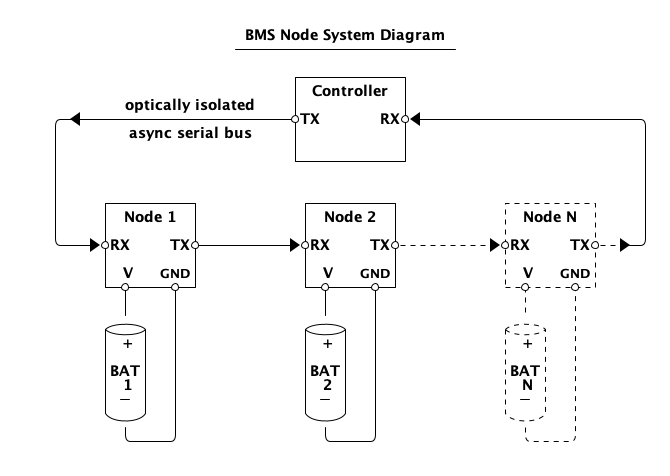
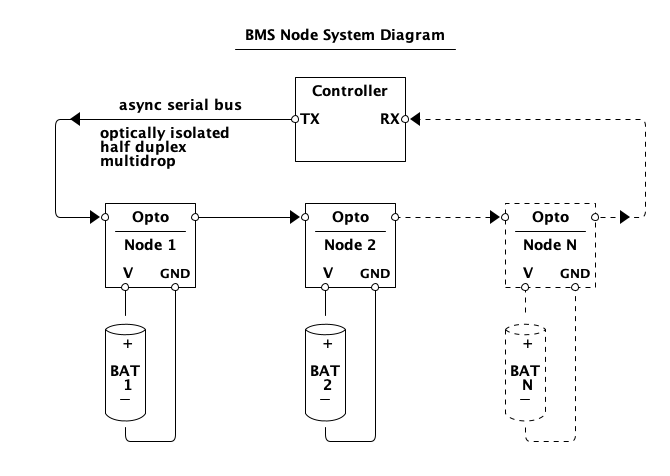
docs: update docs for new v3 design

diff --git a/doc/requirements.md b/doc/requirements.md
@@ -16,20 +16,23 @@ charging.
 System Context
 --------------
 
-The BMSNode device consist of a circuit board that is inspired by the
-"diyBMSv4" project:
+This project was originally inspired by the diyBMSv4" project:
 
 https://github.com/stuartpittaway/diyBMSv4
 
-The initial BMSNode product uses prototypes from the above project. In the
-future the hardware design may be updated, but that is a separate project.
-For the purpose of firmware requirements, the firmware is expected to run on
-this kind of circuit board.
+The early prototypes were based on this, but since then BMSNode has been
+completely redesigned from scratch and is now subtantially different from the
+"diyBMSv4".
 
-Each node is powered by the cell it is monitoring. Each node also has a serial
-transmit and receive signal loop. The TX of one node is connected to the RX
-of the next node in the chain. The TX circuit uses an optocoupler to
-electically isolate each node from the next.
+Each node is powered by the cell it is monitoring. There is a half-duplex
+asynchronous serial bus that daisy chains between all BMSNodes in a group.
+The transmit and receive signals are shared on each node. Each node has a
+unique address that is part of the serial protocol. A node will not transmit
+unless it is addressed with a command from the controller.
+
+Each BMSNode has an optical isolation circuit that provides a tap for the node
+to be able to listen and transmit on the bus, as well as propagate the serial
+data to the next node in the chain.
 
 All the nodes are connected in a chain this way. Each end of the chain is
 connected back to a controller device which may be something like a Raspberry
@@ -230,7 +233,7 @@ technically possible while still being able to respond to commands and voltage
 or temperature actions.
 
 During shunting operation, the goal is to consume power from the battery cell.
-Therefore it is permissible for the BMSNode iFirmware to operate at a high
+Therefore it is permissible for the BMSNode Firmware to operate at a high
 power level while shunting is in effect, and not necessary to stay in a low
 power mode.
 
@@ -275,27 +278,26 @@ The following are constraints that constitue non-functional requirements:
 ### CR1 - MCU Resources
 
 The BMSNode Firmware shall execute within the resources of the microcontroller.
-At the time of this writing, the MCU is an ATTiny841, which has the following
+At the time of this writing, the MCU is an ATTiny1614, which has the following
 constraints:
 
-* CPU clock - 8 MHz
-* Flash memory - 8 kbytes (for application + boot loader)
-* RAM - 512 bytes
-* EEPROM - (used for parameters) 512 bytes
+* CPU clock - 20 MHz
+* Flash memory - 16 kbytes (for application + boot loader)
+* RAM - 2048 bytes
+* EEPROM - (used for parameters) 256 bytes
 
-- CR.1 - firmware shall be designed to run with 8 MHz system clock
+- CR.1 - firmware shall be designed to run with 20 MHz or less system clock
 - CR.2 - firmware compiled size, including any boot loader and other data that
-  is stored in flash, must not be larger than 8 kbytes
-- CR.3 - the firmware shall not use more that 512 bytes of RAM, including
+  is stored in flash, must not be larger than 16 kbytes
+- CR.3 - the firmware shall not use more that 2048 bytes of RAM, including
   variable, stack, and heap
-- CR.4 - configurable parameters shall not be larger than 512 bytes
+- CR.4 - configurable parameters shall not be larger than 256 bytes
 
 ### CR2 - Serial bus
 
-The BMSNode hardware is limited on the maximum serial speed to 4800, until
-modifications are made to the hardware.
+The BMSNode hardware is limited on the maximum serial speed to 9600.
 
-- CR.1 - the serial bus shall operate at a rate of 4800 bps
+- CR.1 - the serial bus shall operate at a rate of 9600 bps
 
 ### CR3 - Firmware Version
 
@@ -377,5 +379,6 @@ is subject to the release process and release testing.
 |   0.9   |Switch to 2400, until hardware improves                  |
 |   0.10  |Shunt PWM                                                |
 |   0.10.x|Feature refinement and bug fixing                        |
+|   0.11.x|Port from ATtiny841 to 1614, and v3 hardware             |
 |   1.0   |First production release                                 |
 

diff --git a/doc/design.md b/doc/design.md
@@ -50,12 +50,13 @@ A purpose-built docker image is used for CI automation. See the
 Execution Environment
 ---------------------
 
-BMSNode firmware runs on an ATTiny841 AVR microcontroller.
+BMSNode firmware runs on an ATTiny1614 AVR microcontroller (as of v3 boards,
+prior versions used ATTiny841).
 
-* 8 MHz
-* 8k program storage (flash)
-* 512 bytes RAM (data, heap, stack)
-* 512 bytes EEPROM-like persistent storage
+* 10 MHz
+* 16k program storage (flash)
+* 2048 bytes RAM (data, heap, stack)
+* 256 bytes EEPROM-like persistent storage
 
 The firmware makes use of the following peripherals:
 
@@ -67,16 +68,17 @@ The firmware makes use of the following peripherals:
 * GPIO
 
 The firmware makes use of a boot loader to allow field updates of the
-application. The boot loader is a variant of optiboot. See the subdirectory
-`./build/optiboot` for details. The optiboot boot loader used about 640 bytes
-at this time. To allow some margin for possible feature expansion, 1k is
-reserved for the boot loader leaving 7k for the application.
+application. The boot loader is a variant of optiboot_x. See the subdirectory
+`./build/bootloader/optiboot_x` for details. The optiboot_x boot loader uses
+a little less than 512 bytes at this time and occupies the two lowest pages
+in flash, in the "boot" section.
 
 Design Overview
 ---------------
 
 The firmware follow the typical embedded application pattern of using a main
-loop to run the various processes.
+loop to run the various processes and a simple state machine to track the
+device functional states.
 
 When the program starts it initializes the hardware execution environment
 (hardware peripheral registers) and various module components (software init).
@@ -101,7 +103,7 @@ for each state.
 
 #### Hardware Timer
 
-Hardware timer 0 is used to generate a 1 millisecond tick using an interrupt.
+Hardware timer TCB0 is used to generate a 1 millisecond tick using an interrupt.
 The interrupt handler increments a 16-bit counter, providing the ability to
 count up to 65535 milliseconds. However, to implement 16-bit timer comparison
 math, the maximum timeout for the 1-millisecond timer is 32767 milliseconds.
@@ -110,9 +112,9 @@ The hardware timer code is part of the `tmr` module (see below).
 #### Serial Receive and Transmit
 
 Hardware interrupts are used for receiving and transmitting serial data.
-Because the UART RX and TX signals are tied together by the half-duplex
-hardware design, only RX or TX is active at one time. The normal resting state
-is that TX is disable and RX is enabled in order to receive any data.
+The MCU UART peripheral support half duplex in hardware and uses a shared pin.
+The firmware is usually listening in receive (RX) mode. It will transmit when
+there is a command requiring a response.
 
 The receive interrupt receives any incoming bytes and passes the byte to the
 packet parser (see `pkt` module). The packet parser assembles packets from the

diff --git a/doc/packet.md b/doc/packet.md
@@ -132,6 +132,8 @@ of the responding node.
 |  8 | SHUNTOFF| turn off shunting                 |
 |  9 | SETPARM | set configuration parameter       |
 | 10 | GETPARM | get configuration parameter       |
+| 11 | TESTMODE| place hardware into various test modes |
+| 12 | FACTORY | restore parameters to default     |
 
 See [Command Specification](command) for command details.
 

diff --git a/doc/blink-patterns.md b/doc/blink-patterns.md
@@ -1,7 +1,7 @@
 BMSNode Blink Codes
 ===================
 
-TODO: this documents should be brought into a higher level app-level spec.
+TODO: this document should be brought into a higher level app-level spec.
 
 This is a placeholder document to keep track of the meanings of blink
 patterns as the firmware is developed.
